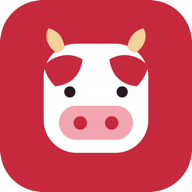
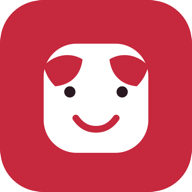
Make Boekoe mark an abstract mascot

Changed region(s): [[0.2812, 0.5312, 0.7188, 0.75], [0.6562, 0.125, 0.7812, 0.2812], [0.2188, 0.125, 0.3438, 0.2812]]

diff --git a/public/sw.js b/public/sw.js
@@ -1,4 +1,4 @@
-const CACHE = 'boekoe-v5'
+const CACHE = 'boekoe-v6'
 const BASE = '/'
 const SHELL = [BASE, `${BASE}manifest.webmanifest`, `${BASE}icon.svg`, `${BASE}icon-192.png`, `${BASE}icon-512.png`]
 
